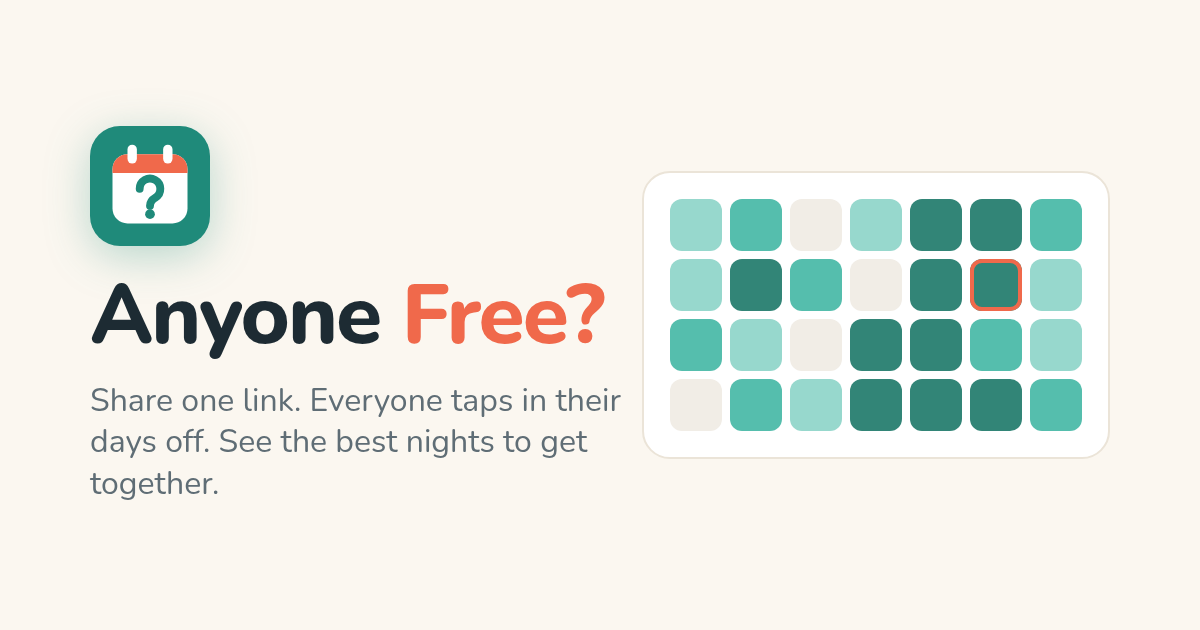
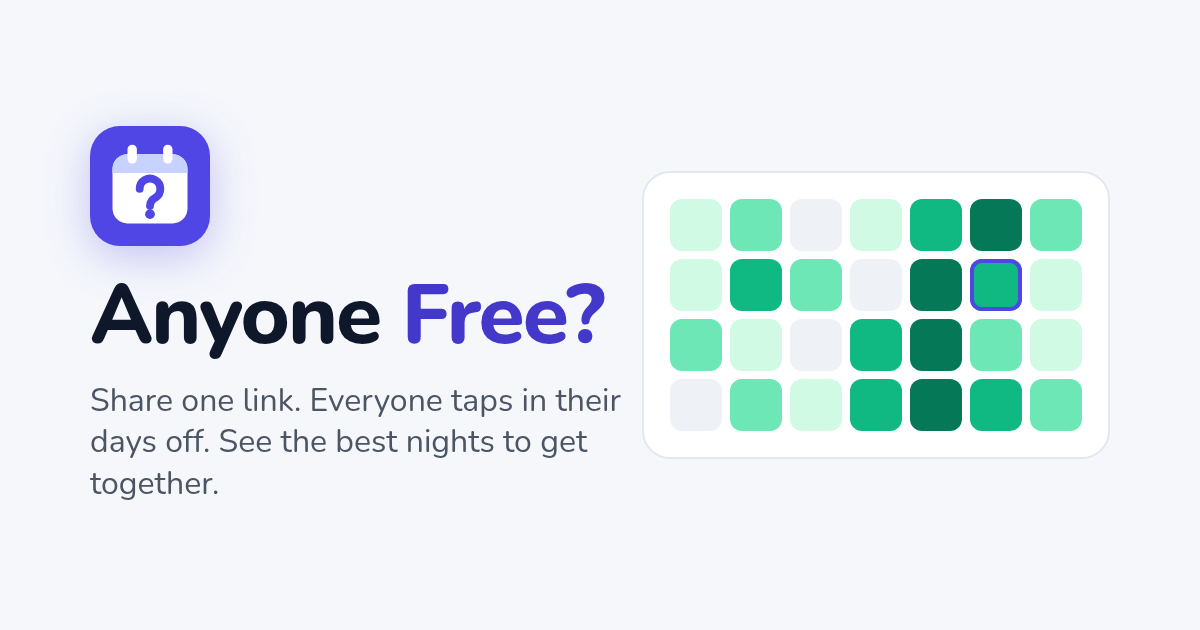
Fresh theme: cool slate + indigo, dark mode with toggle, AA contrast

Changed region(s): [[0.555, 0.3016, 0.925, 0.6937], [0.0617, 0.181, 0.185, 0.4222], [0.3392, 0.4524, 0.5242, 0.5429]]

diff --git a/public/app.css b/public/app.css
@@ -1,66 +1,76 @@
-:root{--bg:#fbf7f0;--card:#fff;--ink:#1d2b33;--mute:#5f6d75;--line:#ebe4d8;--acc:#1f8a7a;--acc2:#e3f4f0;--gold:#f0694b;--goldbg:#fff0ea;--work:#ece8e1;--off:#d3efe8;--maybe:#fdf0cf;--danger:#b3261e;--font:ui-rounded,'SF Pro Rounded',system-ui,-apple-system,'Segoe UI',Roboto,sans-serif}
+:root{--bg:#f5f7fb;--card:#ffffff;--ink:#0f172a;--mute:#4b5563;--line:#e2e8f0;--field:#64748b;--ph:#6b7280;--acc:#4f46e5;--onacc:#ffffff;--accink:#4338ca;--acc2:#eef2ff;--accshadow:#3730a3;--cell0:#eef1f6;--work:#e2e8f0;--workink:#1e293b;--off:#d1fae5;--offink:#065f46;--maybe:#fef3c7;--maybeink:#92400e;--h1:#d1fae5;--h1ink:#065f46;--h2:#6ee7b7;--h2ink:#064e3b;--h3:#10b981;--h3ink:#022c22;--h4:#047857;--h4ink:#ffffff;--danger:#b91c1c;--notice:#fef3c7;--noticeink:#78350f;--toast:#0f172a;--toastink:#ffffff;--font:ui-rounded,'SF Pro Rounded',system-ui,-apple-system,'Segoe UI',Roboto,sans-serif;color-scheme:light}
+@media(prefers-color-scheme:dark){:root:not([data-theme=light]){--bg:#0b1220;--card:#111a2c;--ink:#e6eaf2;--mute:#a3adbf;--line:#243049;--field:#7b879c;--ph:#8b95a8;--acc:#818cf8;--onacc:#0b1220;--accink:#a5b4fc;--acc2:#1e2350;--accshadow:#4f46e5;--cell0:#1a2438;--work:#334155;--workink:#e2e8f0;--off:#064e3b;--offink:#a7f3d0;--maybe:#4d3a12;--maybeink:#fde68a;--h1:#0d3b30;--h1ink:#a7f3d0;--h2:#0f5c45;--h2ink:#d1fae5;--h3:#1fae80;--h3ink:#022c22;--h4:#34d399;--h4ink:#04241b;--danger:#fca5a5;--notice:#4d3a12;--noticeink:#fde68a;--toast:#e6eaf2;--toastink:#0b1220;color-scheme:dark}}
+:root[data-theme=dark]{--bg:#0b1220;--card:#111a2c;--ink:#e6eaf2;--mute:#a3adbf;--line:#243049;--field:#7b879c;--ph:#8b95a8;--acc:#818cf8;--onacc:#0b1220;--accink:#a5b4fc;--acc2:#1e2350;--accshadow:#4f46e5;--cell0:#1a2438;--work:#334155;--workink:#e2e8f0;--off:#064e3b;--offink:#a7f3d0;--maybe:#4d3a12;--maybeink:#fde68a;--h1:#0d3b30;--h1ink:#a7f3d0;--h2:#0f5c45;--h2ink:#d1fae5;--h3:#1fae80;--h3ink:#022c22;--h4:#34d399;--h4ink:#04241b;--danger:#fca5a5;--notice:#4d3a12;--noticeink:#fde68a;--toast:#e6eaf2;--toastink:#0b1220;color-scheme:dark}
 *{box-sizing:border-box}html,body{margin:0;overflow-x:hidden}
 body{font:16px/1.5 var(--font);background:var(--bg);color:var(--ink);-webkit-tap-highlight-color:transparent}
 [hidden]{display:none!important}.sr{position:absolute;width:1px;height:1px;overflow:hidden;clip:rect(0 0 0 0)}
 h1,h2,h3{margin:0;line-height:1.25}h2{font-size:18px}h3{font-size:15px;margin-top:20px}
-.notice{background:#fdf0cf;border-bottom:1px solid #f1dc9f;padding:12px 16px;text-align:center;font-size:15px}
-#toast{position:fixed;left:50%;bottom:24px;transform:translateX(-50%);background:var(--ink);color:#fff;padding:12px 18px;border-radius:12px;z-index:10;max-width:90vw}
-.btn{display:inline-flex;align-items:center;justify-content:center;min-height:44px;padding:0 16px;border-radius:14px;border:1px solid var(--line);background:#fff;color:var(--ink);font:700 15px var(--font);cursor:pointer;text-decoration:none}
-.btn.primary{background:var(--acc);border-color:var(--acc);color:#fff}.btn:disabled{opacity:.5;cursor:not-allowed}
+:focus-visible{outline:3px solid var(--acc);outline-offset:2px}
+.notice{background:var(--notice);color:var(--noticeink);border-bottom:1px solid var(--line);padding:12px 16px;text-align:center;font-size:15px}
+#toast{position:fixed;left:50%;bottom:24px;transform:translateX(-50%);background:var(--toast);color:var(--toastink);padding:12px 18px;border-radius:12px;z-index:10;max-width:90vw}
+.btn{display:inline-flex;align-items:center;justify-content:center;min-height:44px;padding:0 16px;border-radius:14px;border:1px solid var(--field);background:var(--card);color:var(--ink);font:700 15px var(--font);cursor:pointer;text-decoration:none}
+.btn.primary{background:var(--acc);border-color:var(--acc);color:var(--onacc);box-shadow:0 3px 0 var(--accshadow)}.btn.primary:active{transform:translateY(2px);box-shadow:0 1px 0 var(--accshadow)}
+.btn:disabled{opacity:.5;cursor:not-allowed}
 .btn.big{min-height:58px;font-size:18px}.btn.icon{min-width:44px;font-size:22px;padding:0}
-.link{background:none;border:0;color:var(--acc);font:inherit;text-decoration:underline;cursor:pointer;padding:10px 0;min-height:44px}
+.link{background:none;border:0;color:var(--accink);font:inherit;text-decoration:underline;cursor:pointer;padding:10px 0;min-height:44px;min-width:44px}
 .link.danger{color:var(--danger);margin-top:16px}
-input{font:16px var(--font);min-height:44px;padding:0 14px;border:2px solid var(--line);border-radius:12px;background:#fff;color:var(--ink);min-width:0}
-input:focus{outline:none;border-color:var(--acc)}input.big{font-size:20px;min-height:58px;text-align:center}
+input{font:16px var(--font);min-height:44px;padding:0 14px;border:2px solid var(--field);border-radius:12px;background:var(--card);color:var(--ink);min-width:0}
+input::placeholder{color:var(--ph);opacity:1}
+input:focus{outline:none;border-color:var(--acc);box-shadow:0 0 0 3px var(--acc2)}input.big{font-size:20px;min-height:58px;text-align:center}
 .hero{min-height:90svh;display:flex;flex-direction:column;align-items:center;justify-content:center;padding:24px;text-align:center;max-width:480px;margin:0 auto}
-.logo{width:72px;height:72px;margin-bottom:14px;filter:drop-shadow(0 6px 14px rgba(31,138,122,.25))}
-.wordmark{font-size:40px!important;letter-spacing:-.02em;font-weight:800}.wordmark span{color:var(--gold)}
+.logo{width:72px;height:72px;margin-bottom:14px;filter:drop-shadow(0 6px 14px rgba(79,70,229,.3))}
+.wordmark{font-size:40px!important;letter-spacing:-.02em;font-weight:800}.wordmark span{color:var(--accink)}
 .hero h1{font-size:34px}.sub{color:var(--mute);margin:6px 0 24px}
 .stack{display:flex;flex-direction:column;gap:12px;width:100%}.recent{width:100%;margin-top:32px;text-align:left}.recent h2{font-size:14px;color:var(--mute);font-weight:600;margin-bottom:8px}
 .recent a{justify-content:flex-start}
-.gbar{display:flex;align-items:center;justify-content:space-between;gap:12px;padding:12px 16px;background:var(--card);border-bottom:1px solid var(--line);position:sticky;top:0;z-index:5}
+.gbar{display:flex;align-items:center;justify-content:space-between;gap:10px;padding:12px 16px;background:var(--card);border-bottom:1px solid var(--line);position:sticky;top:0;z-index:5}
 .gtitle{display:flex;align-items:center;gap:10px;min-width:0}.gtitle h1{font-size:19px;overflow:hidden;text-overflow:ellipsis;white-space:nowrap}
+.gact{display:flex;gap:8px;flex:none;align-items:center}
 .home{width:44px;height:44px;flex:none;display:grid;place-items:center;text-decoration:none}.home img{display:block}
-.pill{font-size:12px;font-weight:600;padding:3px 9px;border-radius:999px;background:var(--acc2);color:var(--acc)}
-.plan{margin:12px 16px 0;padding:12px 16px;border-radius:14px;background:var(--goldbg);border:1px solid #fbcdbf;color:#9a3a22;font-weight:700}
-.card{background:var(--card);border:1px solid var(--line);border-radius:16px;padding:16px;margin:12px 16px}
+.pill{font-size:12px;font-weight:700;padding:3px 9px;border-radius:999px;background:var(--acc2);color:var(--accink)}
+.plan{margin:12px 16px 0;padding:12px 16px;border-radius:14px;background:var(--acc2);border:1px solid var(--acc);color:var(--accink);font-weight:700}
+.card{background:var(--card);border:1px solid var(--line);border-radius:20px;padding:16px;margin:12px 16px}
 .row{display:flex;gap:10px;align-items:center;margin-top:12px}.row input{flex:1}
 .chips{display:flex;flex-wrap:wrap;gap:8px;margin-top:12px}.chips .btn{min-width:64px}
 .hint{color:var(--mute);font-size:14px;margin:6px 0}
-.tabs{display:flex;margin:12px 16px 0;background:var(--card);border:1px solid var(--line);border-radius:14px;overflow:hidden}
+.tabs{display:flex;margin:12px 16px 0;background:var(--card);border:1px solid var(--field);border-radius:14px;overflow:hidden}
 .tabs button{flex:1;min-height:48px;border:0;background:none;font:600 15px var(--font);color:var(--ink);cursor:pointer}
-.tabs button[aria-selected=true]{background:var(--acc);color:#fff}
+.tabs button[aria-selected=true]{background:var(--acc);color:var(--onacc)}
 .tabhide{display:none}.legend{color:var(--mute);font-size:14px;margin:14px 16px 0}
 .calnav{display:flex;align-items:center;justify-content:space-between;margin:8px 0}
 .dow,.grid{display:grid;grid-template-columns:repeat(7,minmax(0,1fr));gap:4px}
 .dow span{text-align:center;font-size:12px;color:var(--mute);padding:4px 0}
-.cell{position:relative;min-height:52px;border-radius:10px;border:1px solid transparent;background:#f3f1ec;color:var(--ink);font:600 15px var(--font);cursor:pointer;display:flex;flex-direction:column;align-items:center;justify-content:center;padding:2px;line-height:1.15}
-.cell small{font-weight:500;font-size:11px;opacity:.85}.cell.empty{visibility:hidden}.cell.past{opacity:.4}
-.cell.today{border-color:var(--ink)}.cell.sel{outline:3px solid var(--gold);outline-offset:1px}
-.cell.planday::after{content:"★";position:absolute;top:1px;right:4px;font-size:12px;color:var(--gold)}
-.cell.planday{box-shadow:inset 0 0 0 2px var(--gold)}
-.cell.dark{color:#fff}
-.mine .cell.work{background:var(--work)}.mine .cell.off{background:var(--off)}.mine .cell.maybe{background:var(--maybe)}
-.mine .cell.ov::before{content:"";position:absolute;bottom:5px;width:6px;height:6px;border-radius:50%;background:var(--acc)}
+.cell{position:relative;min-height:52px;border-radius:10px;border:1px solid transparent;background:var(--cell0);color:var(--ink);font:600 15px var(--font);cursor:pointer;display:flex;flex-direction:column;align-items:center;justify-content:center;padding:2px;line-height:1.15}
+.cell small{font-weight:600;font-size:11px}.cell.empty{visibility:hidden}
+.cell.past{background:transparent!important;color:var(--mute)!important;border-color:var(--line)}
+.cell.today{border:2px solid var(--ink)}.cell.sel{outline:3px solid var(--acc);outline-offset:1px}
+.cell.planday::after{content:"★";position:absolute;top:2px;right:2px;font-size:11px;line-height:1;padding:2px 3px;border-radius:999px;background:var(--card);color:var(--accink)}
+.cell.planday{box-shadow:inset 0 0 0 3px var(--acc)}
+.cell.h1{background:var(--h1);color:var(--h1ink)}.cell.h2{background:var(--h2);color:var(--h2ink)}.cell.h3{background:var(--h3);color:var(--h3ink)}.cell.h4{background:var(--h4);color:var(--h4ink)}
+.mine .cell.work{background:var(--work);color:var(--workink)}.mine .cell.off{background:var(--off);color:var(--offink)}.mine .cell.maybe{background:var(--maybe);color:var(--maybeink)}
+.mine .cell.ov::before{content:"";position:absolute;bottom:5px;width:6px;height:6px;border-radius:50%;background:currentColor}
 .scale{display:flex;align-items:center;gap:6px;flex-wrap:wrap;font-size:12px;color:var(--mute);margin-top:12px}
-.scale i{width:18px;height:12px;border-radius:3px}.s0{background:#f3f1ec}.s1{background:hsl(170 45% 80%)}.s2{background:hsl(170 45% 58%)}.s3{background:hsl(170 45% 34%)}.pkey{margin-left:auto;color:var(--gold);font-weight:600}
+.scale i{width:18px;height:12px;border-radius:3px;border:1px solid var(--line)}.s0{background:var(--cell0)}.s1{background:var(--h1)}.s2{background:var(--h2)}.s3{background:var(--h3)}.s4{background:var(--h4)}.pkey{margin-left:auto;color:var(--accink);font-weight:700}
 .daylist h3{margin-top:12px}.names{display:flex;flex-wrap:wrap;gap:6px;margin-top:6px}
-.names span{padding:4px 10px;border-radius:999px;font-size:14px;background:#f3f1ec}
-.names.free span{background:var(--off)}.names.maybe span{background:var(--maybe)}
+.names span{padding:4px 10px;border-radius:999px;font-size:14px;background:var(--work);color:var(--workink)}
+.names.free span{background:var(--off);color:var(--offink)}.names.maybe span{background:var(--maybe);color:var(--maybeink)}
 .best{list-style:none;padding:0;margin:8px 0 0;display:flex;flex-direction:column;gap:8px}
 .best button{width:100%;justify-content:space-between;gap:10px;font-weight:500}.best b{font-weight:600}.best .rk{color:var(--mute);font-size:14px}
 .weekly{display:flex;flex-direction:column;gap:8px}
 .wrow{display:grid;grid-template-columns:48px 1fr 1fr;gap:8px;align-items:center}
-.wrow .d{font-weight:600}.st{min-height:44px;border-radius:12px;border:1px solid var(--line);background:#fff;font:600 15px var(--font);color:var(--mute);cursor:pointer}
-.st.work{background:var(--work);color:var(--ink)}.st.off{background:var(--off);color:var(--acc)}.st.maybe{background:var(--maybe);color:#8a6d1f}
-.keys{display:flex;flex-wrap:wrap;gap:8px;margin-top:12px;font-size:13px;color:var(--mute)}.k{padding:3px 9px;border-radius:999px}.k.work{background:var(--work)}.k.off{background:var(--off)}.k.maybe{background:var(--maybe)}
+.wrow .d{font-weight:600}.st{min-height:44px;border-radius:12px;border:1px solid var(--field);background:var(--card);font:600 15px var(--font);color:var(--mute);cursor:pointer}
+.st.work{background:var(--work);color:var(--workink);border-color:var(--workink)}.st.off{background:var(--off);color:var(--offink);border-color:var(--offink)}.st.maybe{background:var(--maybe);color:var(--maybeink);border-color:var(--maybeink)}
+.keys{display:flex;flex-wrap:wrap;gap:8px;margin-top:12px;font-size:13px;color:var(--mute)}.k{padding:3px 9px;border-radius:999px}.k.work{background:var(--work);color:var(--workink)}.k.off{background:var(--off);color:var(--offink)}.k.maybe{background:var(--maybe);color:var(--maybeink)}
 .mehead{display:flex;justify-content:space-between;align-items:baseline}
 .bad{border-color:var(--danger)!important}
+.themeBtn{width:44px;height:44px;min-width:44px;padding:0;border-radius:12px;border:1px solid var(--line);background:transparent;color:var(--ink);font-size:20px;line-height:1;cursor:pointer;display:inline-grid;place-items:center}
+.themeBtn svg{width:20px;height:20px}.themeBtn .moon{display:none}
+:root[data-eff=dark] .themeBtn .sun{display:none}:root[data-eff=dark] .themeBtn .moon{display:block}
+.hometheme{position:absolute;top:12px;right:12px}
 @media(min-width:900px){
  .tabs{display:none}.cols{display:grid;grid-template-columns:minmax(0,1.3fr) minmax(0,1fr);gap:8px;max-width:1280px;margin:0 auto;padding:0 8px}
  .tabhide{display:block}.gbar{padding:14px 24px}.plan,#who{max-width:1240px;margin-left:auto;margin-right:auto}
- .cell{min-height:64px}}
+ .cell{min-height:64px}.hometheme{top:20px;right:24px}}
 #shareBtn{white-space:nowrap;flex:none}#friends{margin:4px 16px 24px}
-.btn.primary{box-shadow:0 4px 0 #16695d}.btn.primary:active{transform:translateY(2px);box-shadow:0 2px 0 #16695d}
-.card{border-radius:20px}
 .flabel{font-weight:700;text-align:left;font-size:15px;margin-bottom:-4px}
+@media(max-width:420px){.gbar{padding:12px}.gact{gap:6px}#shareBtn{padding-left:12px;padding-right:12px}}

diff --git a/public/index.html b/public/index.html
@@ -1,7 +1,10 @@
 <!doctype html><html lang="en"><head><meta charset="utf-8"><meta name="viewport" content="width=device-width,initial-scale=1">
 <title>Anyone Free? – find a night your friends are all free</title>
 <meta name="description" content="Anyone Free? is a no-signup friend availability calendar. Everyone taps in their days off and shifts, and you see the best nights to get together.">
-<meta name="theme-color" content="#1f8a7a">
+<meta name="theme-color" id="tcLight" media="(prefers-color-scheme: light)" content="#f5f7fb">
+<meta name="theme-color" id="tcDark" media="(prefers-color-scheme: dark)" content="#0b1220">
+<meta name="color-scheme" content="light dark">
+<script>(function(){var d=document.documentElement,t=null;try{t=localStorage.getItem('af:theme')}catch(e){}if(t==='light'||t==='dark')d.setAttribute('data-theme',t);var e=t||(matchMedia('(prefers-color-scheme: dark)').matches?'dark':'light');d.setAttribute('data-eff',e)})();</script>
 <link rel="icon" href="/favicon.svg" type="image/svg+xml">
 <link rel="apple-touch-icon" href="/og-icon.png">
 <meta property="og:type" content="website">
@@ -23,6 +26,7 @@
 <div id="toast" role="status" aria-live="polite" hidden></div>
 
 <main id="home" hidden>
+ <button class="themeBtn hometheme" type="button" aria-label="Dark mode" aria-pressed="false" title="Toggle dark mode"><svg class="sun" viewBox="0 0 24 24" fill="none" stroke="currentColor" stroke-width="2" stroke-linecap="round" aria-hidden="true"><circle cx="12" cy="12" r="4.5"/><path d="M12 2v2M12 20v2M4.9 4.9l1.4 1.4M17.7 17.7l1.4 1.4M2 12h2M20 12h2M4.9 19.1l1.4-1.4M17.7 6.3l1.4-1.4"/></svg><svg class="moon" viewBox="0 0 24 24" fill="none" stroke="currentColor" stroke-width="2" stroke-linejoin="round" aria-hidden="true"><path d="M20 14.5A8 8 0 0 1 9.5 4a8 8 0 1 0 10.5 10.5z"/></svg></button>
  <section class="hero">
   <img class="logo" src="/favicon.svg" alt="" width="72" height="72">
   <h1 class="wordmark">Anyone <span>Free?</span></h1>
@@ -39,7 +43,7 @@
 <main id="group" hidden>
  <header class="gbar">
   <div class="gtitle"><a href="/" class="home" aria-label="Anyone Free? home"><img src="/favicon.svg" alt="" width="40" height="40"></a><h1 id="gName">Group</h1><span id="hostTag" class="pill" hidden>Host</span></div>
-  <button id="shareBtn" class="btn">Share</button>
+  <div class="gact"><button class="themeBtn" type="button" aria-label="Dark mode" aria-pressed="false" title="Toggle dark mode"><svg class="sun" viewBox="0 0 24 24" fill="none" stroke="currentColor" stroke-width="2" stroke-linecap="round" aria-hidden="true"><circle cx="12" cy="12" r="4.5"/><path d="M12 2v2M12 20v2M4.9 4.9l1.4 1.4M17.7 17.7l1.4 1.4M2 12h2M20 12h2M4.9 19.1l1.4-1.4M17.7 6.3l1.4-1.4"/></svg><svg class="moon" viewBox="0 0 24 24" fill="none" stroke="currentColor" stroke-width="2" stroke-linejoin="round" aria-hidden="true"><path d="M20 14.5A8 8 0 0 1 9.5 4a8 8 0 1 0 10.5 10.5z"/></svg></button><button id="shareBtn" class="btn">Share</button></div>
  </header>
  <div id="nextPlan" class="plan" hidden></div>
 
@@ -66,7 +70,7 @@
     <div class="calnav"><button class="btn icon" data-nav="g:-1" aria-label="Previous month">‹</button><h2 id="gMonth"></h2><button class="btn icon" data-nav="g:1" aria-label="Next month">›</button></div>
     <div class="dow"><span>Mo</span><span>Tu</span><span>We</span><span>Th</span><span>Fr</span><span>Sa</span><span>Su</span></div>
     <div id="gGrid" class="grid"></div>
-    <div class="scale"><span>Fewer free</span><i class="s0"></i><i class="s1"></i><i class="s2"></i><i class="s3"></i><span>More</span><span class="pkey">★ Planned</span></div>
+    <div class="scale"><span>Fewer free</span><i class="s0"></i><i class="s1"></i><i class="s2"></i><i class="s3"></i><i class="s4"></i><span>More</span><span class="pkey">★ Planned</span></div>
    </div>
    <div id="day" class="card" hidden></div>
    <div class="card"><h2>Best nights</h2><ol id="best" class="best"></ol></div>
@@ -93,6 +97,6 @@
  </div>
 </main>
 
-<main id="missing" hidden><section class="hero"><img class="logo" src="/favicon.svg" alt="" width="72" height="72"><h1>Group not found</h1><p class="sub">The link may be wrong or the group was deleted.</p><a class="btn primary big" href="/">Start a new group</a></section></main>
+<main id="missing" hidden><button class="themeBtn hometheme" type="button" aria-label="Dark mode" aria-pressed="false" title="Toggle dark mode"><svg class="sun" viewBox="0 0 24 24" fill="none" stroke="currentColor" stroke-width="2" stroke-linecap="round" aria-hidden="true"><circle cx="12" cy="12" r="4.5"/><path d="M12 2v2M12 20v2M4.9 4.9l1.4 1.4M17.7 17.7l1.4 1.4M2 12h2M20 12h2M4.9 19.1l1.4-1.4M17.7 6.3l1.4-1.4"/></svg><svg class="moon" viewBox="0 0 24 24" fill="none" stroke="currentColor" stroke-width="2" stroke-linejoin="round" aria-hidden="true"><path d="M20 14.5A8 8 0 0 1 9.5 4a8 8 0 1 0 10.5 10.5z"/></svg></button><section class="hero"><img class="logo" src="/favicon.svg" alt="" width="72" height="72"><h1>Group not found</h1><p class="sub">The link may be wrong or the group was deleted.</p><a class="btn primary big" href="/">Start a new group</a></section></main>
 <script src="/app.js"></script>
 </body></html>

diff --git a/public/app.js b/public/app.js
@@ -123,10 +123,10 @@ function renderGroupCal() {
   $('gGrid').innerHTML = monthCells(f).map((k) => {
     if (!k) return '<span class="cell empty"></span>';
     const c = counts(k), r = total ? c.free.length / total : 0, past = k < t;
-    const bg = c.free.length ? `background:hsl(170 45% ${Math.round(88 - r * 54)}%)` : '';
-    const cls = ['cell', past && 'past', k === t && 'today', k === S.sel && 'sel', rn.has(k) && 'planday', r > 0.5 && 'dark'].filter(Boolean).join(' ');
+    const hv = c.free.length ? (r > 0.75 ? 'h4' : r > 0.5 ? 'h3' : r > 0.25 ? 'h2' : 'h1') : '';
+    const cls = ['cell', past && 'past', k === t && 'today', k === S.sel && 'sel', rn.has(k) && 'planday', !past && hv].filter(Boolean).join(' ');
     const lbl = `${nice(k)}: ${c.free.length} free, ${c.maybe.length} maybe${rn.has(k) ? ', planned' : ''}`;
-    return `<button class="${cls}" style="${bg}" data-gday="${k}" aria-label="${esc(lbl)}">${+k.slice(8)}${total ? `<small>${c.free.length}${c.maybe.length ? '+' + c.maybe.length : ''}</small>` : ''}</button>`;
+    return `<button class="${cls}" data-gday="${k}" aria-label="${esc(lbl)}">${+k.slice(8)}${total ? `<small>${c.free.length}${c.maybe.length ? '+' + c.maybe.length : ''}</small>` : ''}</button>`;
   }).join('');
 }
 function renderDay() {
@@ -189,6 +189,7 @@ function applyShift(target, input) {
 // ---------- events ----------
 document.addEventListener('click', async (e) => {
   const b = e.target.closest('button,a'); if (!b) return;
+  if (b.classList.contains('themeBtn')) { setTheme(effTheme() === 'dark' ? 'light' : 'dark'); return; }
   if (b.dataset.name) { setMe(b.dataset.name); return; }
   if (b.dataset.nav) { const [w, d] = b.dataset.nav.split(':'); const k = w === 'g' ? 'gMonth' : 'mMonth'; S[k] = new Date(S[k].getFullYear(), S[k].getMonth() + +d, 1); render(); return; }
   if (b.dataset.gday) { S.sel = S.sel === b.dataset.gday ? null : b.dataset.gday; renderGroupCal(); renderDay(); if (S.sel && innerWidth < 900) $('day').scrollIntoView({ behavior: 'smooth', block: 'nearest' }); return; }
@@ -226,3 +227,18 @@ setInterval(() => { if (S.gid && !$('group').hidden && document.visibilityState 
 setTab('group');
 fetch('/api/health').then((r) => r.json()).then((j) => setStorage(!!j.storage)).catch(() => setStorage(false));
 route();
+
+// ---------- theme (light/dark; saved in af:theme, default follows the OS) ----------
+const darkMQ = matchMedia('(prefers-color-scheme: dark)');
+function effTheme() { const t = LS.get('af:theme'); return t === 'light' || t === 'dark' ? t : (darkMQ.matches ? 'dark' : 'light'); }
+function applyTheme() {
+  const t = LS.get('af:theme'), e = effTheme(), d = document.documentElement;
+  if (t === 'light' || t === 'dark') d.dataset.theme = t; else delete d.dataset.theme;
+  d.dataset.eff = e;
+  const c = e === 'dark' ? '#0b1220' : '#f5f7fb';
+  if (t) { $('tcLight').content = c; $('tcDark').content = c; } else { $('tcLight').content = '#f5f7fb'; $('tcDark').content = '#0b1220'; }
+  document.querySelectorAll('.themeBtn').forEach((b) => { b.setAttribute('aria-pressed', String(e === 'dark')); b.title = e === 'dark' ? 'Switch to light mode' : 'Switch to dark mode'; });
+}
+function setTheme(t) { LS.set('af:theme', t); applyTheme(); }
+darkMQ.addEventListener('change', applyTheme);
+applyTheme();
